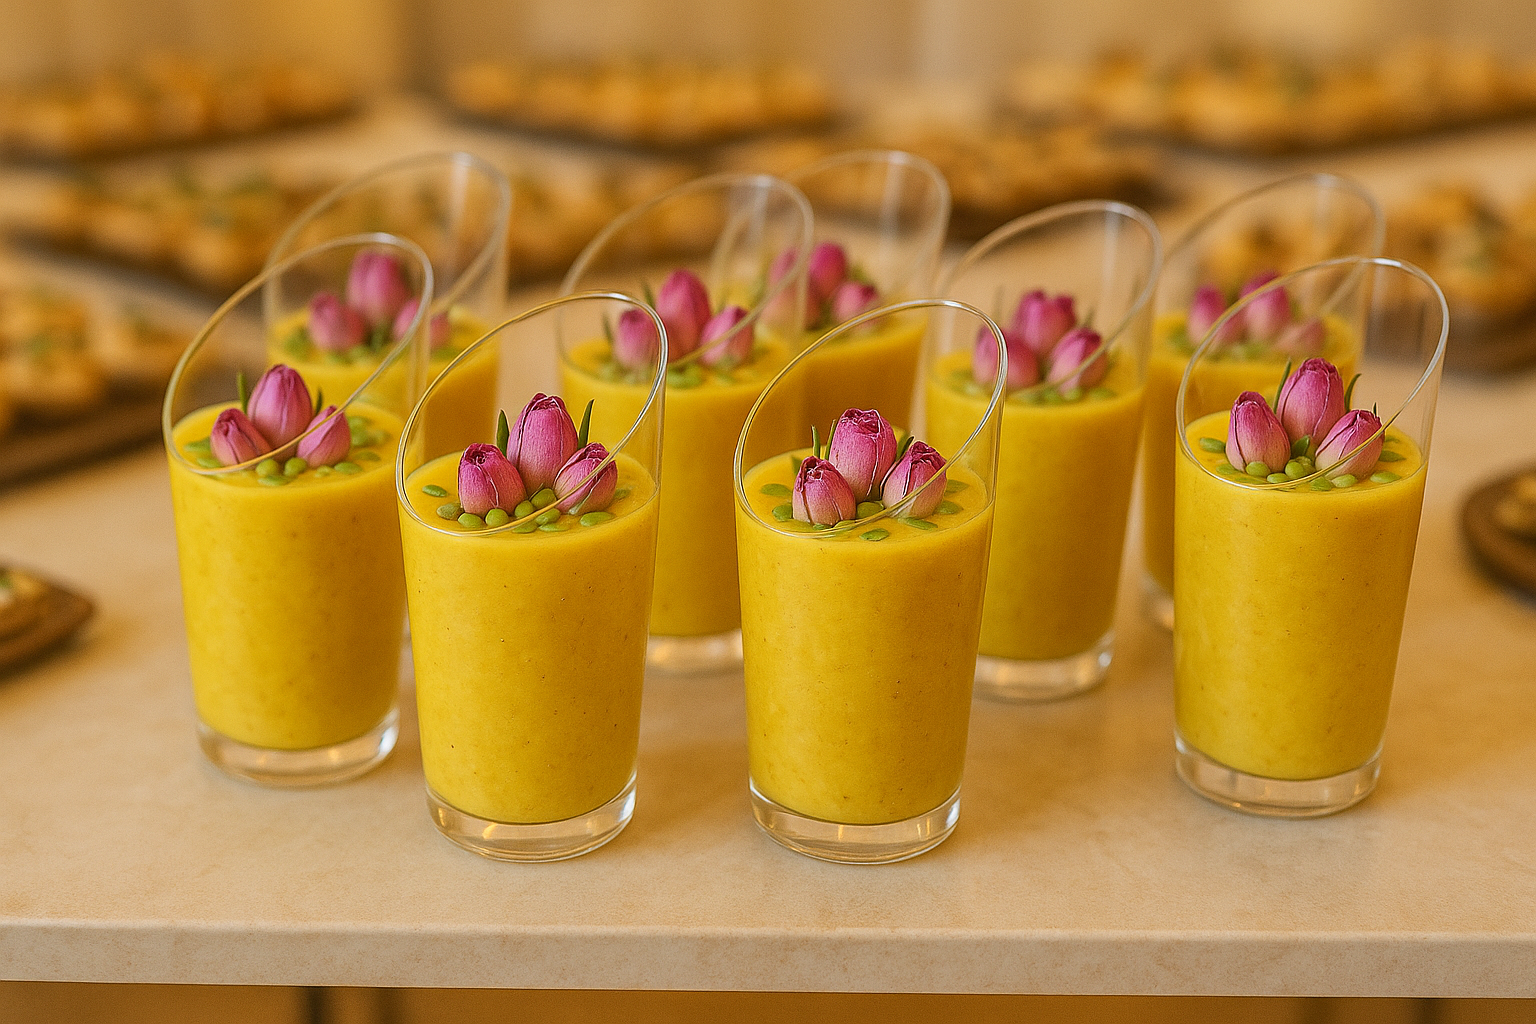
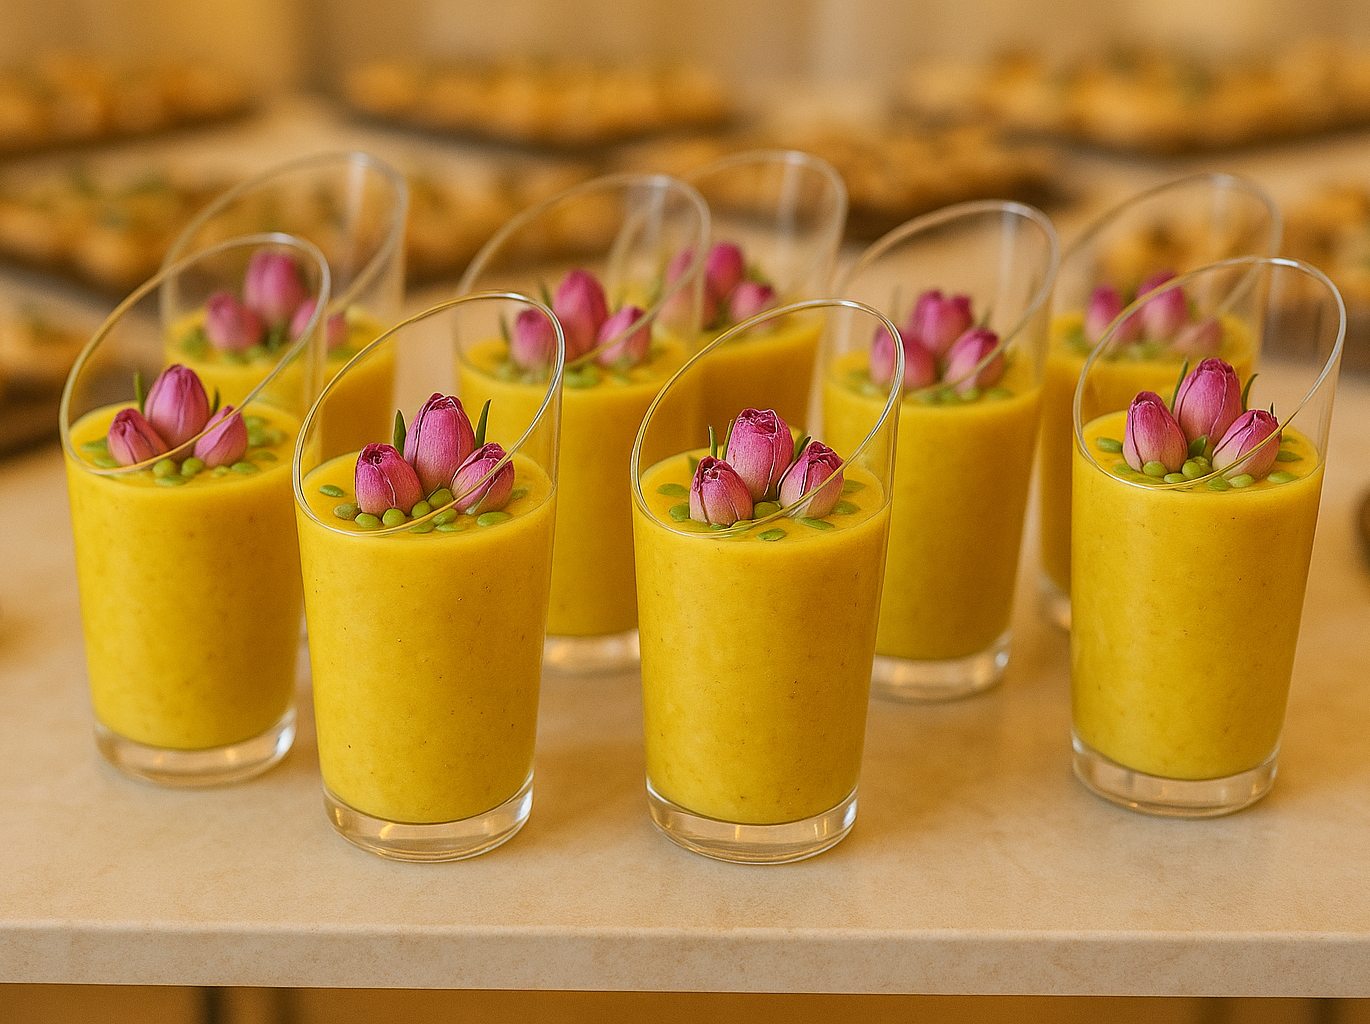
updated img  as a raw on mobile screen view

diff --git a/src/components/EventsCard/index.jsx b/src/components/EventsCard/index.jsx
@@ -42,7 +42,7 @@ const EventsCard = ({ title, image, description }) => {
         <div
           ref={scrollRef}
           onScroll={handleScroll}
-          className="w-[168px] h-[120px] md:w-[199px] md:h-[143px] lg:w-[299px] lg:h-[214px] xl:w-[354px] xl:h-[254px] flex overflow-x-auto snap-x snap-mandatory rounded-[20px] hide-scrollbar scroll-smooth"
+          className="w-full h-[120px] sm:h-[160px] md:w-[199px] md:h-[143px] lg:w-[299px] lg:h-[214px] xl:w-[354px] xl:h-[254px] flex flex-row gap-3 md:gap-0 md:overflow-x-auto md:snap-x md:snap-mandatory rounded-[20px] md:hide-scrollbar md:scroll-smooth"
           style={{ scrollbarWidth: 'none', msOverflowStyle: 'none' }}
         >
           {images.map((imgSrc, idx) => (
@@ -50,7 +50,7 @@ const EventsCard = ({ title, image, description }) => {
               key={idx}
               src={imgSrc}
               alt={`${title} - image ${idx + 1}`}
-              className="w-full h-full object-cover shrink-0 snap-center rounded-[20px]"
+              className="w-0 flex-1 md:flex-none h-full md:w-full object-cover md:shrink-0 md:snap-center rounded-[20px]"
             />
           ))}
         </div>